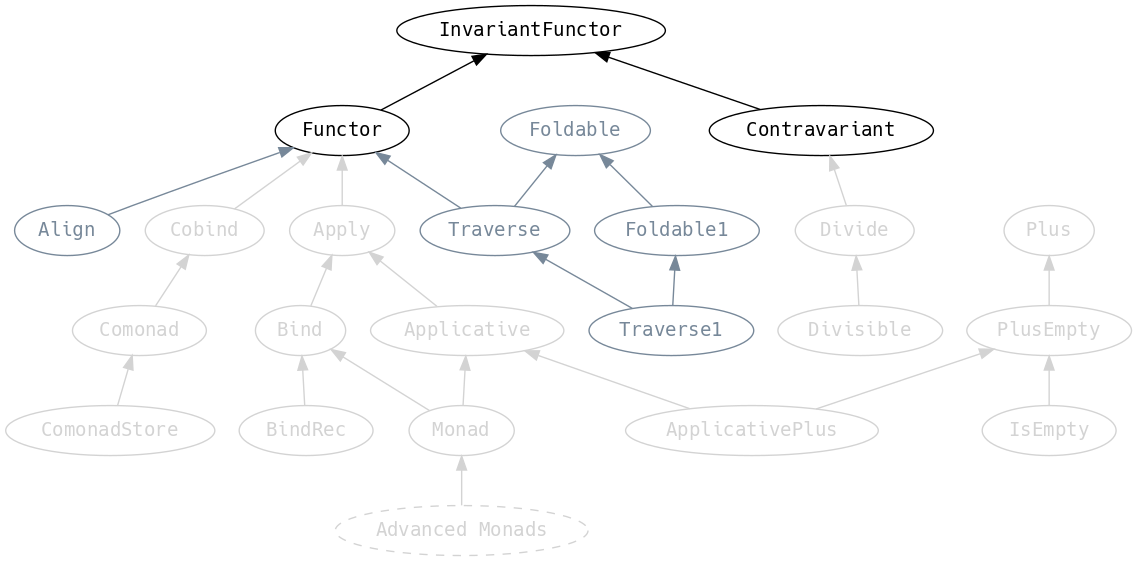
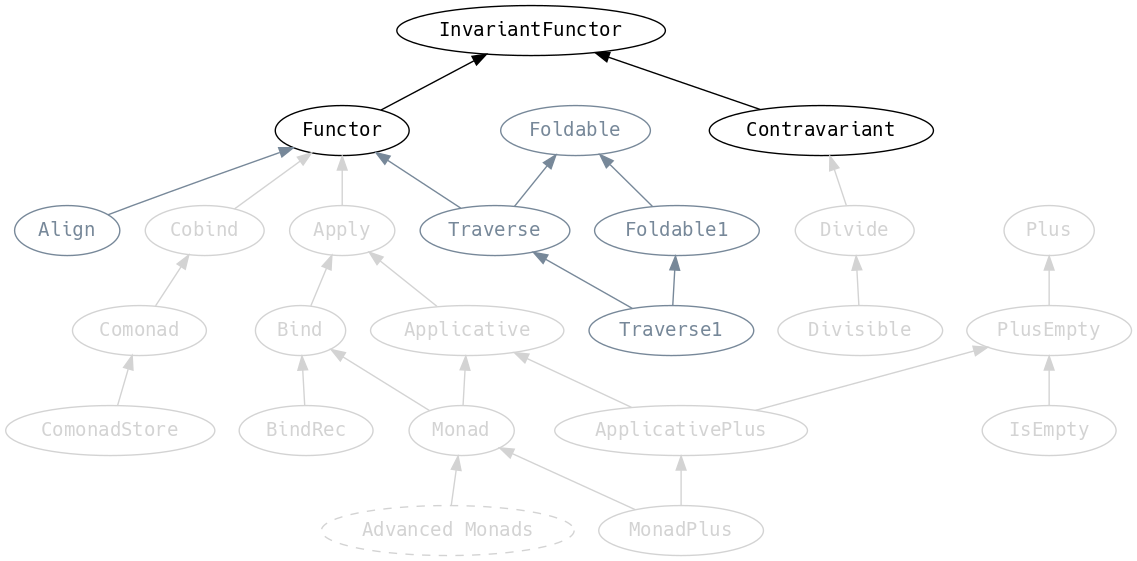
MonadPlus and friends

diff --git a/manuscript/wip.md b/manuscript/wip.md
@@ -1687,8 +1687,8 @@ we're given an `F[A]` and an `F[B]`, then we can get an `F[C]`. Hence,
 
 This is a great way to generate typeclass instances by breaking their
 type parameter into smaller pieces. Scalaz comes with an instance of
-`Divide[Equal]` so let's use `Equal` as an example to construct an
-`Equal` for a new product type `Foo`
+`Divide[Equal]`, let's construct an `Equal` for a new product type
+`Foo`
 
 {lang="text"}
 ~~~~~~~~
@@ -1742,6 +1742,139 @@ Generally, if encoder typeclasses provide an instance of `Divisible`,
 rather than stopping at `Contravariant`, it makes it easy to derive
 instances for arbitrary ADTs. Similarly, decoder typeclasses could
 provide an `Apply` instance.
+
+
+## Plus
+
+{width=100%}
+![](images/scalaz-plus.png)
+
+`Plus` is `Semigroup` but for HKTs, and `PlusEmpty` is the equivalent
+of `Monoid` (they even have the same laws) whereas `IsEmpty` is novel
+and allows us to query if an `F[A]` is empty:
+
+{lang="text"}
+~~~~~~~~
+  @typeclass trait Plus[F[_]] {
+    @op("<+>") def plus[A](a: F[A], b: => F[A]): F[A]
+  
+    def semigroup[A]: Semigroup[F[A]] = ...
+  }
+  @typeclass trait PlusEmpty[F[_]] extends Plus[F] {
+    def empty[A]: F[A]
+  
+    def monoid[A]: Monoid[F[A]] = ...
+  }
+  @typeclass trait IsEmpty[F[_]] extends PlusEmpty[F] {
+    def isEmpty[A](fa: F[A]): Boolean
+  }
+~~~~~~~~
+
+A> `<+>` is the TIE Interceptor, and now we're almost out of TIE
+A> Fighters...
+
+Although it may look on the surface as if `<+>` behaves like `|+|`
+
+{lang="text"}
+~~~~~~~~
+  scala> List(2,3) |+| List(7)
+  res = List(2, 3, 7)
+  
+  scala> List(2,3) <+> List(7)
+  res = List(2, 3, 7)
+~~~~~~~~
+
+it is best to think of it as operating only at the `F[_]` level, never
+looking into the `A`
+
+{lang="text"}
+~~~~~~~~
+  scala> Option(1) |+| Option(2)
+  res = Some(3)
+  
+  scala> Option(1) <+> Option(2)
+  res = Some(1)
+  
+  scala> Option.empty[Int] <+> Option(1)
+  res = Some(1)
+~~~~~~~~
+
+So whereas `List` can be concatenated at the data structure level,
+`Option` must choose one value and discard the rest, using a "first
+wins" policy.
+
+This also means that we didn't needs to define our own
+`Monoid[Option[A]]` when combining our `TradeTemplate`, we could have
+defined
+
+{lang="text"}
+~~~~~~~~
+  implicit def firstWins[A]: Monoid[Option[A]] = PlusEmpty[Option].monoid[A]
+~~~~~~~~
+
+and used `foldRight` instead of `foldLeft`.
+
+`<+>` can therefore be used as a mechanism for early exit and fallback
+logic.
+
+`Applicative` and `Monad` allow for specialised versions of `PlusEmpty`
+
+{lang="text"}
+~~~~~~~~
+  @typeclass trait ApplicativePlus[F[_]] extends Applicative[F] with PlusEmpty[F]
+  
+  @typeclass trait MonadPlus[F[_]] extends Monad[F] with ApplicativePlus[F] {
+    def unite[T[_]: Foldable, A](ts: F[T[A]]): F[A] = ...
+  
+    def withFilter[A](fa: F[A])(f: A => Boolean): F[A] = ...
+  }
+~~~~~~~~
+
+`unite` looks like `Foldable.fold` but is using the
+`PlusEmpty[F].monoid[A]` (not the `Monoid[T[A]]`) and skips anything
+that is `empty` under that definition. For example, uniting a
+`List[Either]` means that `Left` are converted into `Nil` and the
+`Right` are converted into `List`, then the `Nil` are filtered away:
+
+{lang="text"}
+~~~~~~~~
+  scala> List(Right(1), Left("boo"), Right(2)).unite
+  res: List[Int] = List(1, 2)
+~~~~~~~~
+
+`withFilter` allows us to make use of `for` comprehension language
+support as discussed in Chapter 2. It is fair to say that the Scala
+language has built-in language support for `MonadPlus`, not just
+`Monad`!
+
+Returning to `Foldable` for a moment, we can reveal some methods that
+we did not discuss earlier
+
+{lang="text"}
+~~~~~~~~
+  @typeclass trait Foldable[F[_]] {
+    ...
+    def msuml[G[_], A](fa: F[G[A]])(implicit G: PlusEmpty[G]): G[A] = ...
+    def collapse[X[_]: ApplicativePlus, A](x: F[A]): X[A] = ...
+    ...
+  }
+~~~~~~~~
+
+`msuml` does a `fold` using the `Monoid` from the inner container's
+`PlusEmpty` and `collapse` does a `foldRight` using the `PlusEmpty` of
+the target type, exiting early:
+
+{lang="text"}
+~~~~~~~~
+  scala> IList(Option(1), Option.empty[Int], Option(2)).fold
+  res: Option[Int] = Some(3) // uses Monoid[Option[Int]]
+  
+  scala> IList(Option(1), Option.empty[Int], Option(2)).msuml
+  res: Option[Int] = Some(1) // uses PlusEmpty[Option].monoid
+  
+  scala> IList(1, 2).collapse[Option]
+  res: Option[Int] = Some(1)
+~~~~~~~~
 
 
 # What's Next?
